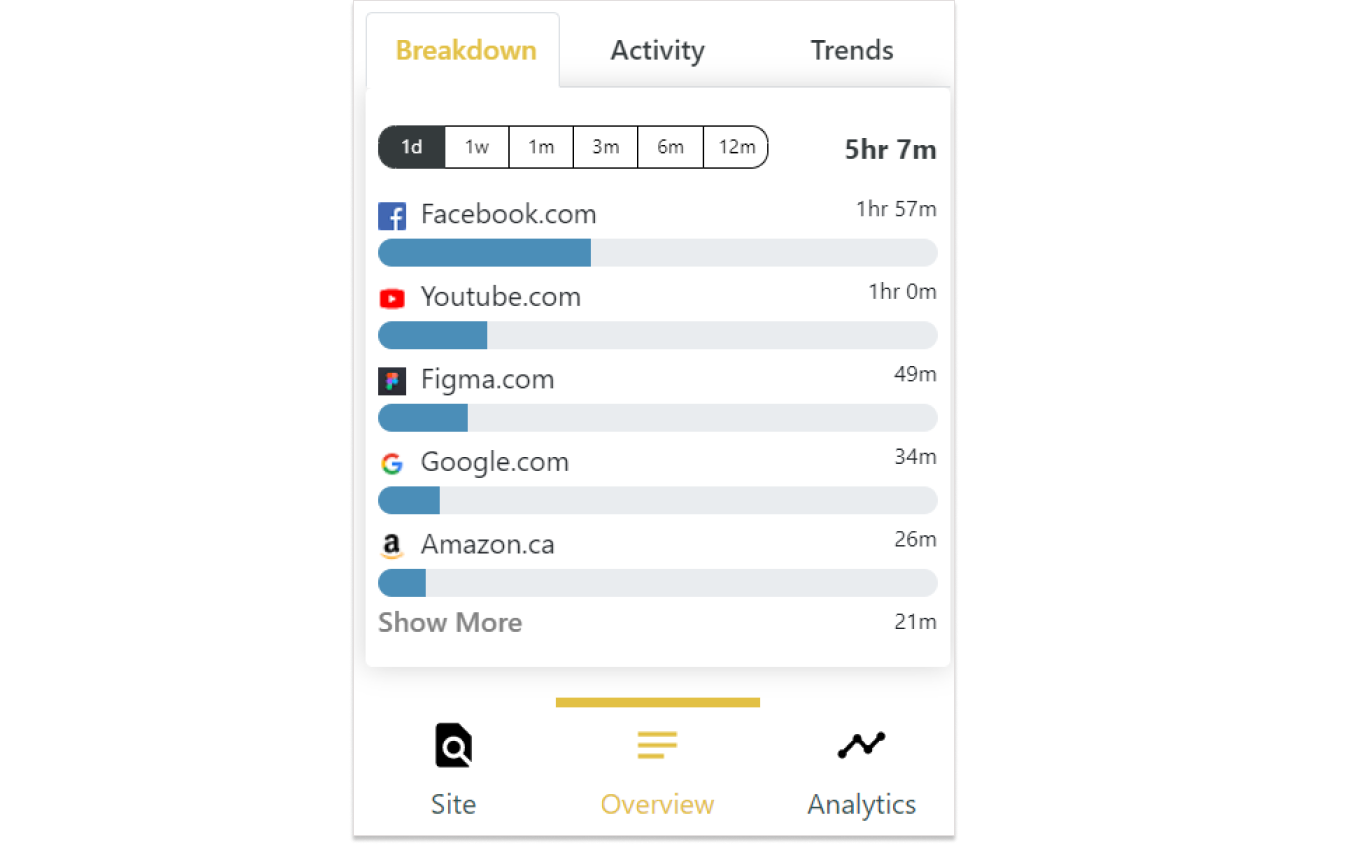
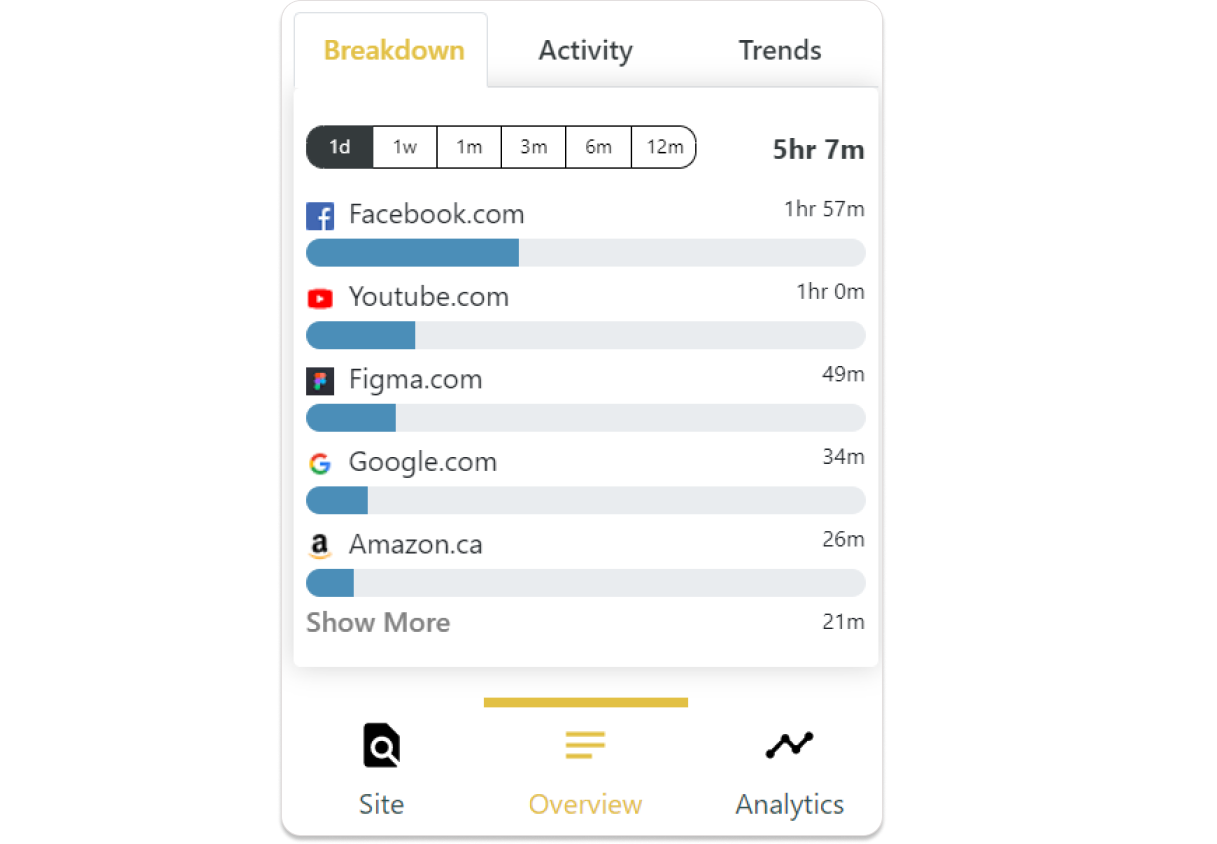
Rebased to current HourglassSite

diff --git a/index.html b/index.html
@@ -229,8 +229,8 @@
                 <i class="fa fa-check text-secondary bg-white shadow icon-sm"></i>
               </div>
               <div>
-                <h5>Something else here</h5>
-                <p>With a summary</p>
+                <h5>Visualize Your Time</h5>
+                <p>See exactly where your time goes across sites and days with our elegant visuals</p>
               </div>
             </li>
           </ul>
@@ -253,7 +253,7 @@
     <div class="container">
       <div class="row">
         <div class="col-md-6 pr-lg-5">
-          <img src="images/integration/integration-2.png" class="img-fluid" alt="dashboard" data-aos="fade-up">
+          <img src="images/Features_3.png" class="img-fluid" alt="dashboard" data-aos="fade-up">
         </div>
         <div class="col-md-6 pl-lg-5">
           <h2 class="section-title">Keep track of progress.
@@ -276,8 +276,8 @@
                 <i class="fa fa-check text-secondary bg-white shadow icon-sm"></i>
               </div>
               <div>
-                <h5>Something else here</h5>
-                <p>With a summary</p>
+                <h5>Track Across Devices</h5>
+                <p>HourGlass supports tracking on any number of computers you use throughout the day to get an accurate sense of your time online</p>
               </div>
             </li>
           </ul>
